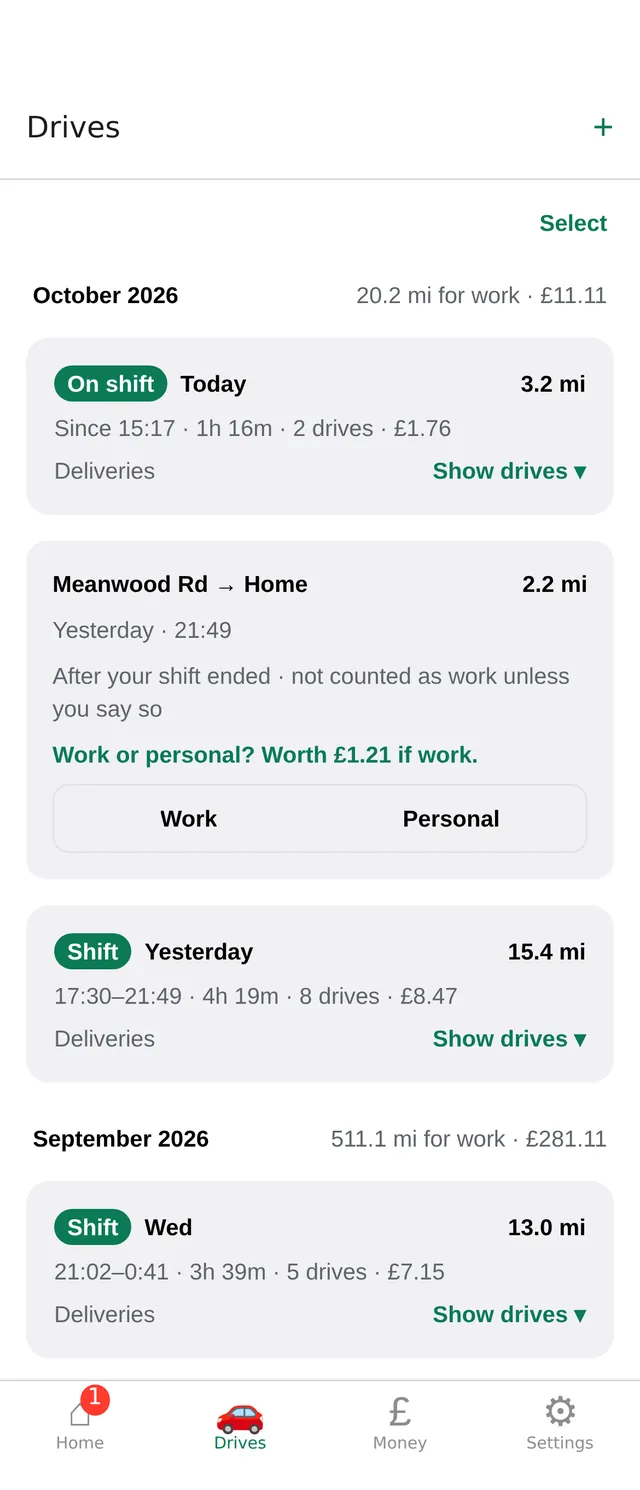
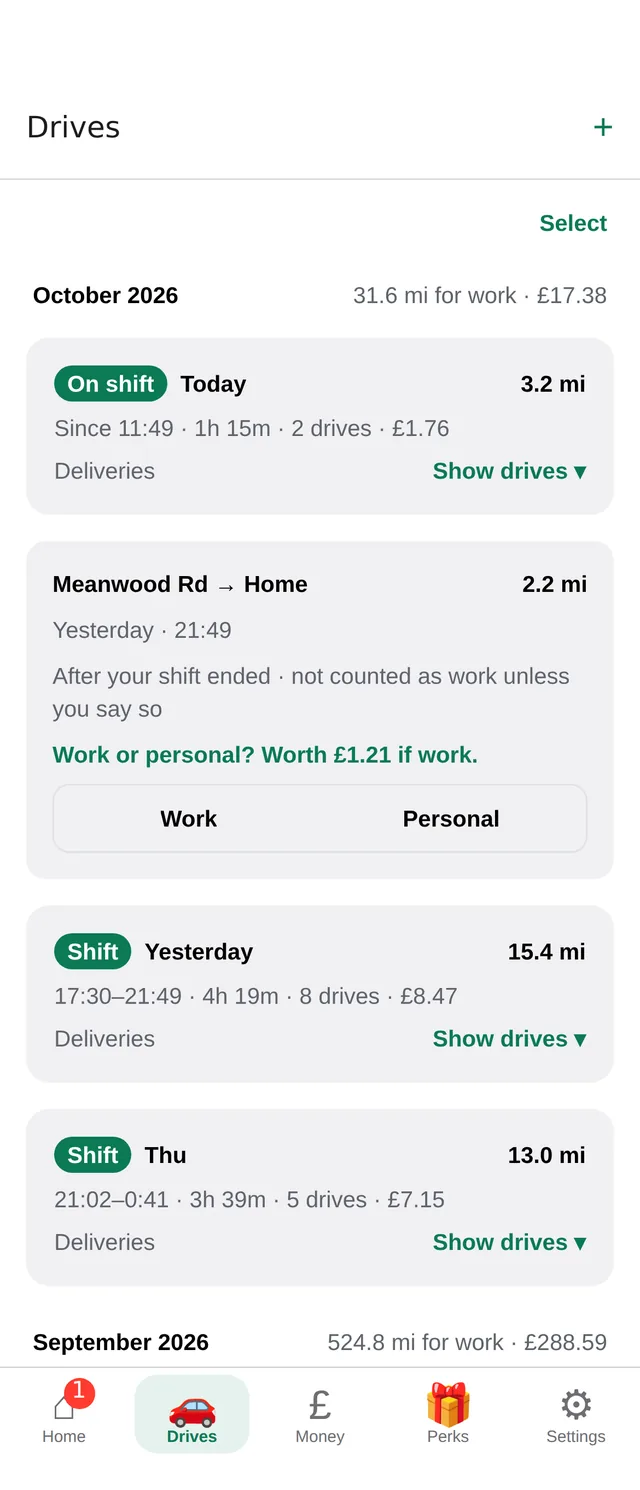
Website: deck screens re-shot from the current app; wording blockers
- home, drives, money, export and privacy screens re-shot from the app's
  web preview (milemint/assets/store/capture.js, UK courier demo), same
  640x1490 framing: "Counting your miles", "Automatic logging", "never
  sent to MileSprout", and the Perks tab in the tab bar. Trip and the two
  Perks screens were already current (trip keeps its drawn street map).
  ?v= on the changed images, since /assets/img is cached for 30 days.
- Compare note 2 quotes Gridwise's own words as a quotation.
- "no trackers" -> "no ad trackers" (feature panel, privacy policy).
- Title and meta description left for the founder.

Claude-Session: https://claude.ai/code/session_01HV35bfD7NzTSNvA32BVxeb

diff --git a/website/index.html b/website/index.html
@@ -17,7 +17,7 @@
 <link rel="icon" href="/favicon.svg" type="image/svg+xml">
 <link rel="icon" href="/favicon-32.png" sizes="32x32" type="image/png">
 <link rel="apple-touch-icon" href="/apple-touch-icon.png">
-<link rel="preload" href="/assets/img/screens/home.webp" as="image" type="image/webp">
+<link rel="preload" href="/assets/img/screens/home.webp?v=14b25716" as="image" type="image/webp">
 <link rel="stylesheet" href="/assets/site.css?v=f7ade5d7">
 <script src="/assets/intro-gate.js?v=59c0d459"></script>
 <script src="/assets/season.js?v=06a20cf1" defer></script>
@@ -119,12 +119,12 @@
           <div class="deck" id="deck" role="region" aria-roledescription="carousel" aria-label="MileSprout app screens" aria-describedby="deck-help" tabindex="0">
             <p class="sr-only" id="deck-help">Use the left and right arrow keys, or the buttons below, to go through the screens.</p>
             <div class="deck-cards">
-              <div class="dcard" role="group" aria-roledescription="slide" aria-label="1 of 8: Home" data-depth="0"><div class="phone"><div class="screen"><img src="/assets/img/screens/home.webp" width="640" height="1490" draggable="false" alt="The Home screen: on shift for 1 hour 15 minutes, £1,754.40 of deductions found this tax year, and a drive to sort Work or Personal."><span class="sbar" aria-hidden="true"><b>9:41</b></span></div></div></div>
-              <div class="dcard" role="group" aria-roledescription="slide" aria-label="2 of 8: Drives" data-depth="1"><div class="phone"><div class="screen"><img src="/assets/img/screens/drives.webp" width="640" height="1490" loading="lazy" draggable="false" alt="The Drives list: each shift is one row with its miles, time and drives."><span class="sbar" aria-hidden="true"><b>9:41</b></span></div></div></div>
+              <div class="dcard" role="group" aria-roledescription="slide" aria-label="1 of 8: Home" data-depth="0"><div class="phone"><div class="screen"><img src="/assets/img/screens/home.webp?v=14b25716" width="640" height="1490" draggable="false" alt="The Home screen: on shift for 1 hour 15 minutes, £1,754.62 of deductions found this tax year, and a drive to sort Work or Personal."><span class="sbar" aria-hidden="true"><b>9:41</b></span></div></div></div>
+              <div class="dcard" role="group" aria-roledescription="slide" aria-label="2 of 8: Drives" data-depth="1"><div class="phone"><div class="screen"><img src="/assets/img/screens/drives.webp?v=c380434c" width="640" height="1490" loading="lazy" draggable="false" alt="The Drives list: each shift is one row with its miles, time and drives."><span class="sbar" aria-hidden="true"><b>9:41</b></span></div></div></div>
               <div class="dcard" role="group" aria-roledescription="slide" aria-label="3 of 8: Trip" data-depth="2"><div class="phone"><div class="screen"><img src="/assets/img/screens/trip.webp" width="640" height="1490" loading="lazy" draggable="false" alt="A single trip with its route on a street map, a Work or Personal switch, the start and end places, and parking and tolls fields."><span class="sbar" aria-hidden="true"><b>9:41</b></span></div></div></div>
-              <div class="dcard" role="group" aria-roledescription="slide" aria-label="4 of 8: Money" data-depth="3"><div class="phone" data-tone="dark"><div class="screen"><img src="/assets/img/screens/money.webp" width="640" height="1490" loading="lazy" draggable="false" alt="The Money tab: quarterly figures with their due dates, and how much to put aside for tax this week."><span class="sbar" aria-hidden="true"><b>9:41</b></span></div></div></div>
-              <div class="dcard" role="group" aria-roledescription="slide" aria-label="5 of 8: Reports" data-depth="far"><div class="phone"><div class="screen"><img src="/assets/img/screens/export.webp" width="640" height="1490" loading="lazy" draggable="false" alt="The Reports screen: odometer readings, export choices for spreadsheet, Xero, QuickBooks, FreeAgent and expense claim, and the HMRC mileage report."><span class="sbar" aria-hidden="true"><b>9:41</b></span></div></div></div>
-              <div class="dcard" role="group" aria-roledescription="slide" aria-label="6 of 8: Privacy" data-depth="far"><div class="phone"><div class="screen"><img src="/assets/img/screens/privacy.webp" width="640" height="1490" loading="lazy" draggable="false" alt="The set-up screen: automatic, uses little battery, and private, with trips stored encrypted on your phone."><span class="sbar" aria-hidden="true"><b>9:41</b></span></div></div></div>
+              <div class="dcard" role="group" aria-roledescription="slide" aria-label="4 of 8: Money" data-depth="3"><div class="phone" data-tone="dark"><div class="screen"><img src="/assets/img/screens/money.webp?v=8821bdb7" width="640" height="1490" loading="lazy" draggable="false" alt="The Money tab: quarterly figures with their due dates, and how much to put aside for tax this week."><span class="sbar" aria-hidden="true"><b>9:41</b></span></div></div></div>
+              <div class="dcard" role="group" aria-roledescription="slide" aria-label="5 of 8: Reports" data-depth="far"><div class="phone"><div class="screen"><img src="/assets/img/screens/export.webp?v=9167afe1" width="640" height="1490" loading="lazy" draggable="false" alt="The Reports screen: odometer readings, export choices for spreadsheet, Xero, QuickBooks, FreeAgent and expense claim, and the HMRC mileage report."><span class="sbar" aria-hidden="true"><b>9:41</b></span></div></div></div>
+              <div class="dcard" role="group" aria-roledescription="slide" aria-label="6 of 8: Privacy" data-depth="far"><div class="phone"><div class="screen"><img src="/assets/img/screens/privacy.webp?v=d4c4da3e" width="640" height="1490" loading="lazy" draggable="false" alt="The set-up screen: automatic, uses little battery, and private, with trips stored encrypted on your phone."><span class="sbar" aria-hidden="true"><b>9:41</b></span></div></div></div>
               <div class="dcard" role="group" aria-roledescription="slide" aria-label="7 of 8: Perks" data-depth="far"><div class="phone"><div class="screen"><img src="/assets/img/screens/perks.webp" width="640" height="1490" loading="lazy" draggable="false" alt="The Perks tab: this week's offers, such as 10p off a litre of fuel and a free hot drink, each with a Claim button and how many are left this week."><span class="sbar" aria-hidden="true"><b>9:41</b></span></div></div></div>
               <div class="dcard" role="group" aria-roledescription="slide" aria-label="8 of 8: Your code" data-depth="far"><div class="phone"><div class="screen"><img src="/assets/img/screens/perks-code.webp" width="640" height="1490" loading="lazy" draggable="false" alt="A claimed perk: a QR code and a short code to show at the till, with a countdown of how long it can be used."><span class="sbar" aria-hidden="true"><b>9:41</b></span></div></div></div>
             </div>
@@ -203,7 +203,7 @@
             <p>Where you go is your business. MileSprout is built so we never see it.</p>
             <ul>
               <li>Your trips are stored encrypted on your iPhone.</li>
-              <li>No account to make. No ads, no analytics, no trackers.</li>
+              <li>No account to make. No ads, no analytics, no ad trackers.</li>
               <li>Your data is never sold. We don't have it to sell.</li>
               <li>Backups go to your own iCloud, encrypted on your phone first.</li>
             </ul>
@@ -474,7 +474,7 @@
       <p class="compare-checked fine">Checked October 2026. Prices and features change; see each app's site.</p>
       <ol class="compare-notes fine">
         <li id="cmp-1">Driversnote's free plan limits how many trips you can report each month. See their site for today's number.</li>
-        <li id="cmp-2">Gridwise's help centre lists automatic mileage and time tracking as a Plus feature. Manual tracking is free.</li>
+        <li id="cmp-2">Gridwise's help centre lists “automatic mileage and time tracking” as a Plus feature (their words); logging by hand is free.</li>
         <li id="cmp-3">From each app's App Store privacy label ("Data Linked to You" and "Data Used to Track You"). For MileSprout, see our <a href="/privacy">privacy policy</a>.</li>
         <li id="cmp-4">Pro prices are shown in the app.</li>
       </ol>

diff --git a/website/privacy.html b/website/privacy.html
@@ -43,7 +43,7 @@
       <p><strong>The short version</strong></p>
       <ul>
         <li>Your trips, places and earnings are stored on your iPhone, in an encrypted database. We (the people who make MileSprout) never receive them.</li>
-        <li>There's no account. The app has no ads, no analytics, no crash-reporting tools and no trackers, and it doesn't talk to any server of ours.</li>
+        <li>There's no account. The app has no ads, no analytics, no crash-reporting tools and no ad trackers, and it doesn't talk to any server of ours.</li>
         <li>If you're signed in to iCloud, the app backs up your data to your own iCloud, encrypted on your phone first. Neither we nor Apple can read it.</li>
         <li>Some features use Apple services (place names, maps, App Store purchases). Apple handles that data under its own privacy policy.</li>
         <li>We never sell data. We don't have yours to sell.</li>

diff --git a/website/testers.html b/website/testers.html
@@ -51,7 +51,7 @@
       </div>
       <div class="tester-phone">
         <div class="phone">
-          <div class="screen"><img src="/assets/img/screens/home.webp" width="640" height="1490" fetchpriority="high" draggable="false" alt="The MileSprout home screen: on shift for 1 hour 15 minutes, deductions found this tax year, and a drive waiting to be sorted Work or Personal."><span class="sbar" aria-hidden="true"><b>9:41</b></span></div>
+          <div class="screen"><img src="/assets/img/screens/home.webp?v=14b25716" width="640" height="1490" fetchpriority="high" draggable="false" alt="The MileSprout home screen: on shift for 1 hour 15 minutes, deductions found this tax year, and a drive waiting to be sorted Work or Personal."><span class="sbar" aria-hidden="true"><b>9:41</b></span></div>
         </div>
       </div>
     </div>
